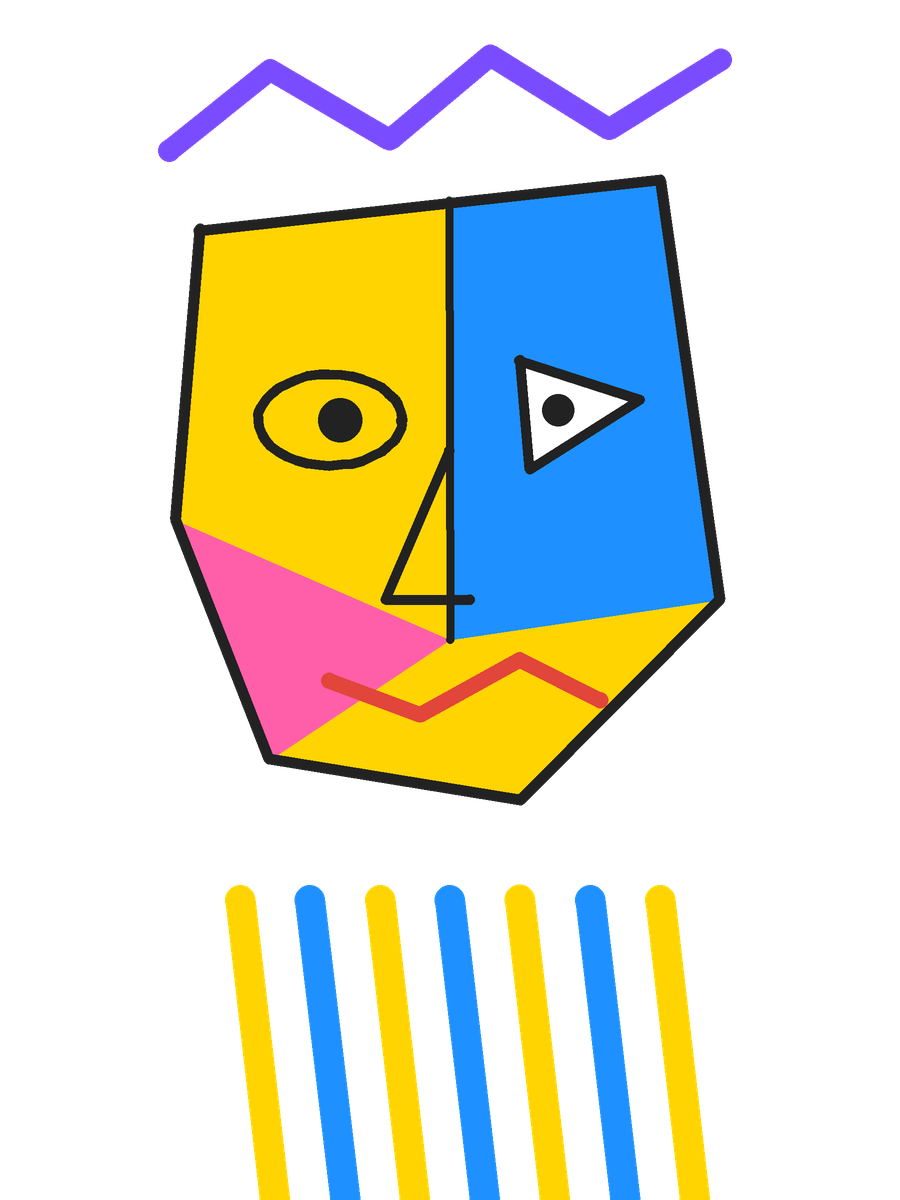
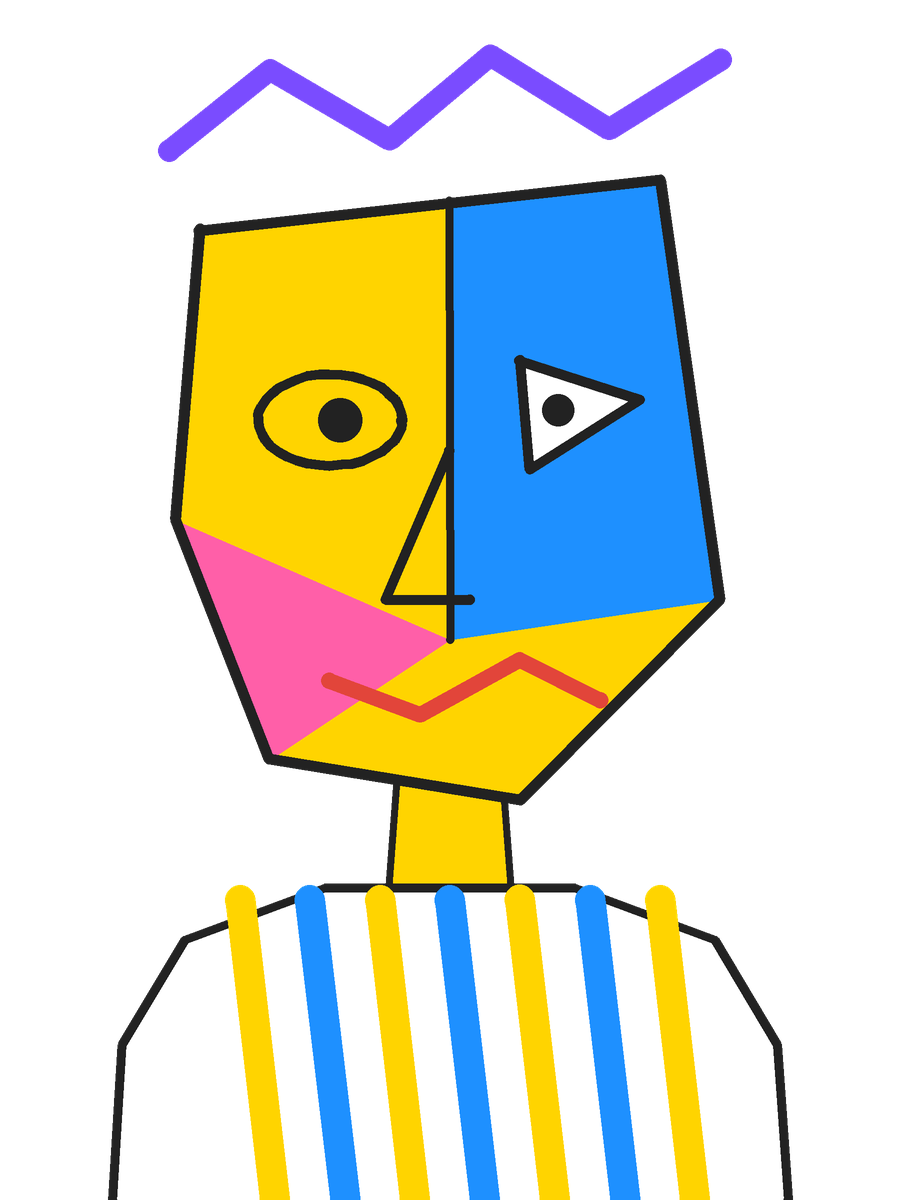
얼굴 그리기: 목과 몸도 참가자가 직접 그리도록 변경
- 미리 그려진 목·어깨를 없애고 이름표만 고정
- 그림판 안내선을 사람 모양 점선으로 ('얼굴부터 몸까지 직접 그려 보세요')
- 아직 안 그린 캐릭터는 사람 모양 점선 + 물음표
- 예시 그림 8장에 목·몸 추가

Claude-Session: https://claude.ai/code/session_018etMHwfRsBh2cTx56cfdEi

diff --git a/face/common.js b/face/common.js
@@ -164,32 +164,26 @@ function confetti(duration = 3500) {
 }
 
 // ------------------------------------------------------------------------------
-// 캐릭터(이름표를 단 어깨 + 목) — 얼굴형은 참가자가 직접 그립니다. 그림판, 큰 화면, 완성 그림에 똑같이 사용
+// 캐릭터: 이름표만 고정, 얼굴 · 목 · 몸은 참가자가 직접 그립니다. 그림판, 큰 화면, 완성 그림에 똑같이 사용
 // 좌표는 900×1200 기준입니다.
 const CHAR_W = 900, CHAR_H = 1200;
 const HEAD = { cx: 450, cy: 470, rx: 285, ry: 340 };
 
 function drawCharBody(ctx, { bg } = {}) {
-  ctx.save();
-  if (bg) { ctx.fillStyle = bg; ctx.fillRect(0, 0, CHAR_W, CHAR_H); }
-  // 몸통
+  // 얼굴 · 목 · 몸은 모두 참가자가 그립니다. 여기서는 배경만 칠합니다.
+  if (bg) { ctx.save(); ctx.fillStyle = bg; ctx.fillRect(0, 0, CHAR_W, CHAR_H); ctx.restore(); }
+}
+
+// 사람 모양 점선 (안내선 · 물음표 캐릭터에 함께 사용)
+function personPath(ctx) {
   ctx.beginPath();
-  ctx.moveTo(110, CHAR_H);
-  ctx.bezierCurveTo(115, 1010, 200, 905, 330, 880);
-  ctx.lineTo(570, 880);
-  ctx.bezierCurveTo(700, 905, 785, 1010, 790, CHAR_H);
-  ctx.closePath();
-  let g = ctx.createLinearGradient(110, 0, 790, 0);
-  g.addColorStop(0, '#d9dcdf'); g.addColorStop(0.25, '#ffffff'); g.addColorStop(0.7, '#f7f7f7'); g.addColorStop(1, '#cfd3d8');
-  ctx.fillStyle = g; ctx.fill();
-  // 목
-  g = ctx.createLinearGradient(380, 0, 520, 0);
-  g.addColorStop(0, '#d8c3a5'); g.addColorStop(0.5, '#efe2cf'); g.addColorStop(1, '#d2bc9d');
-  ctx.fillStyle = g;
-  ctx.beginPath();
-  ctx.moveTo(392, 790); ctx.lineTo(508, 790); ctx.lineTo(525, 900);
-  ctx.quadraticCurveTo(450, 935, 375, 900); ctx.closePath(); ctx.fill();
-  ctx.restore();
+  ctx.ellipse(HEAD.cx, HEAD.cy, HEAD.rx, HEAD.ry, 0, 0, Math.PI * 2);
+  ctx.moveTo(400, 805); ctx.lineTo(392, 895);
+  ctx.moveTo(500, 805); ctx.lineTo(508, 895);
+  ctx.moveTo(120, CHAR_H);
+  ctx.bezierCurveTo(125, 1010, 200, 905, 330, 890);
+  ctx.lineTo(570, 890);
+  ctx.bezierCurveTo(700, 905, 775, 1010, 780, CHAR_H);
 }
 
 function drawCharBadge(ctx, name) {
@@ -225,15 +219,15 @@ function drawFaceGuide(ctx) {
   ctx.save();
   ctx.setLineDash([18, 22]); ctx.lineWidth = 6; ctx.lineCap = 'round';
   ctx.strokeStyle = 'rgba(47,85,200,.22)';
-  ctx.beginPath(); ctx.ellipse(HEAD.cx, HEAD.cy, HEAD.rx, HEAD.ry, 0, 0, Math.PI * 2); ctx.stroke();
+  personPath(ctx); ctx.stroke();
   ctx.setLineDash([]);
   ctx.fillStyle = 'rgba(47,85,200,.45)';
   ctx.textAlign = 'center'; ctx.textBaseline = 'middle';
   ctx.font = `800 52px ${getComputedStyle(document.body).fontFamily}`;
-  ctx.fillText('얼굴형부터', HEAD.cx, HEAD.cy - 34);
+  ctx.fillText('얼굴부터 몸까지', HEAD.cx, HEAD.cy - 34);
   ctx.fillText('직접 그려 보세요', HEAD.cx, HEAD.cy + 34);
   ctx.font = `600 34px ${getComputedStyle(document.body).fontFamily}`;
-  ctx.fillText('동그라미 · 네모 · 세모 · 무엇이든', HEAD.cx, HEAD.cy + 110);
+  ctx.fillText('점선은 참고만, 크기 · 모양은 자유', HEAD.cx, HEAD.cy + 110);
   ctx.restore();
 }
 
@@ -243,7 +237,8 @@ function drawFacePlaceholder(ctx) {
   ctx.fillStyle = 'rgba(255,255,255,.7)';
   ctx.beginPath(); ctx.ellipse(HEAD.cx, HEAD.cy, HEAD.rx, HEAD.ry, 0, 0, Math.PI * 2); ctx.fill();
   ctx.setLineDash([26, 22]); ctx.lineWidth = 12; ctx.lineCap = 'round';
-  ctx.strokeStyle = 'rgba(47,85,200,.45)'; ctx.stroke();
+  ctx.strokeStyle = 'rgba(47,85,200,.45)';
+  personPath(ctx); ctx.stroke();
   ctx.setLineDash([]);
   ctx.fillStyle = 'rgba(47,85,200,.55)';
   ctx.textAlign = 'center'; ctx.textBaseline = 'middle';

diff --git a/face/index.html b/face/index.html
@@ -8,7 +8,7 @@
 <meta name="theme-color" content="#fff7e8">
 <title>얼굴 그리기 대회 — 참가</title>
 <link rel="stylesheet" href="common.css">
-<link rel="stylesheet" href="join.css?v=face2">
+<link rel="stylesheet" href="join.css?v=face3">
 </head>
 <body class="join">
 
@@ -117,8 +117,8 @@
 <div class="net-badge hidden" id="net-badge">📶 연결 중…</div>
 
 <script src="vendor/supabase.js"></script>
-<script src="common.js?v=face2"></script>
+<script src="common.js?v=face3"></script>
 <script src="fd.js"></script>
-<script src="join.js?v=face2"></script>
+<script src="join.js?v=face3"></script>
 </body>
 </html>

diff --git a/face/screen.html b/face/screen.html
@@ -69,8 +69,8 @@
 
 <script src="vendor/qrcode.js"></script>
 <script src="vendor/supabase.js"></script>
-<script src="common.js?v=face2"></script>
+<script src="common.js?v=face3"></script>
 <script src="fd.js"></script>
-<script src="screen.js?v=face2"></script>
+<script src="screen.js?v=face3"></script>
 </body>
 </html>

diff --git a/face/host.html b/face/host.html
@@ -202,7 +202,7 @@
 
 <script src="vendor/qrcode.js"></script>
 <script src="vendor/supabase.js"></script>
-<script src="common.js?v=face2"></script>
+<script src="common.js?v=face3"></script>
 <script src="fd.js"></script>
 <script src="host.js"></script>
 </body>
